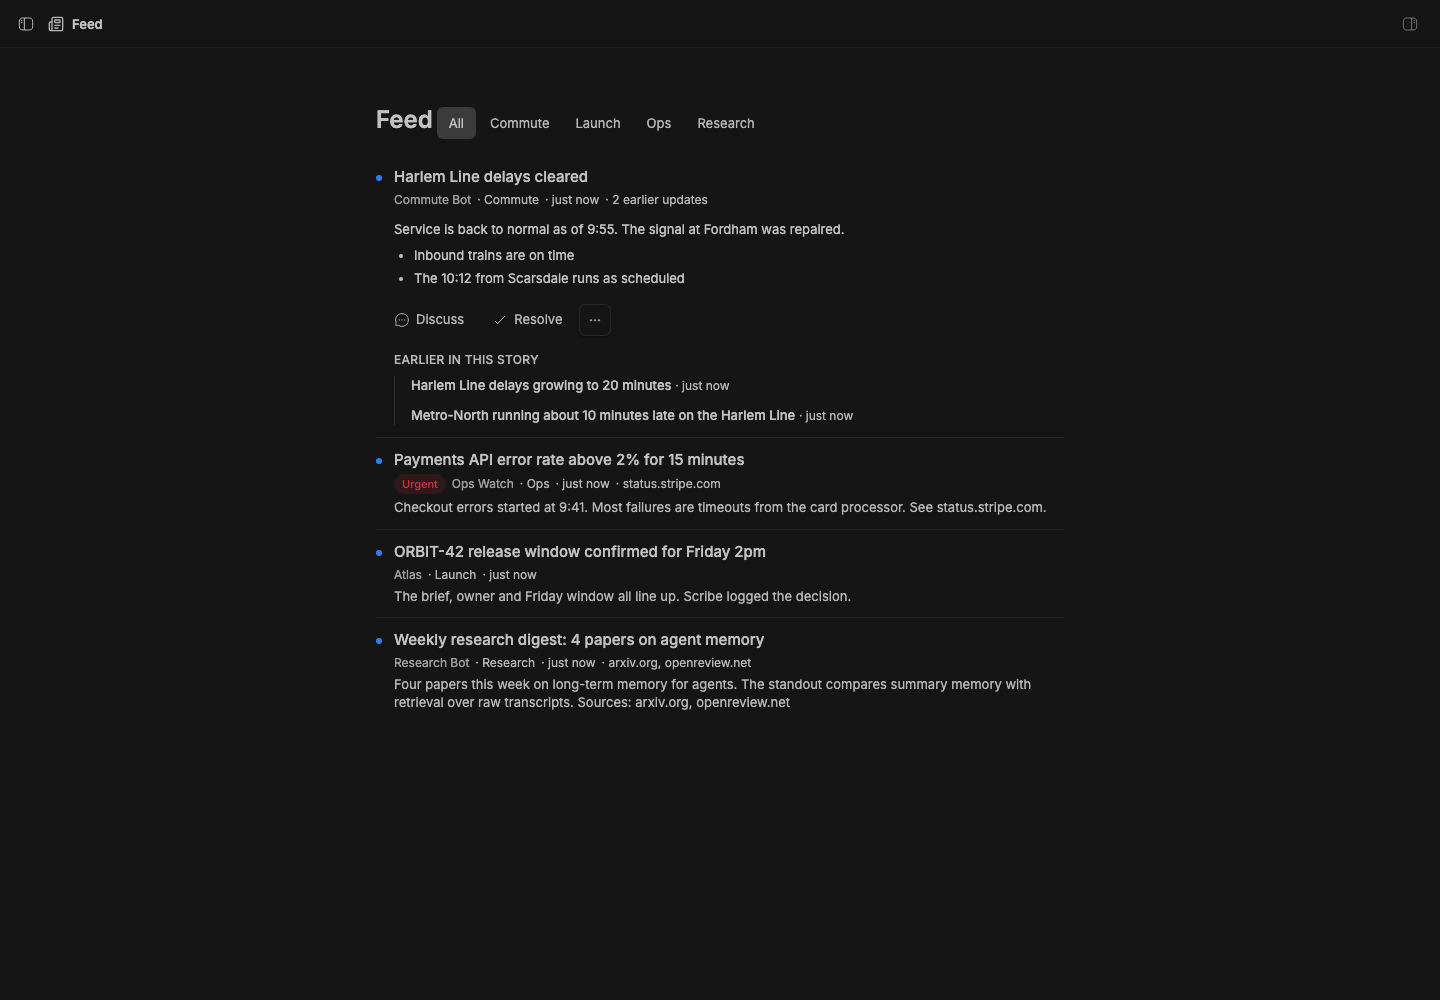
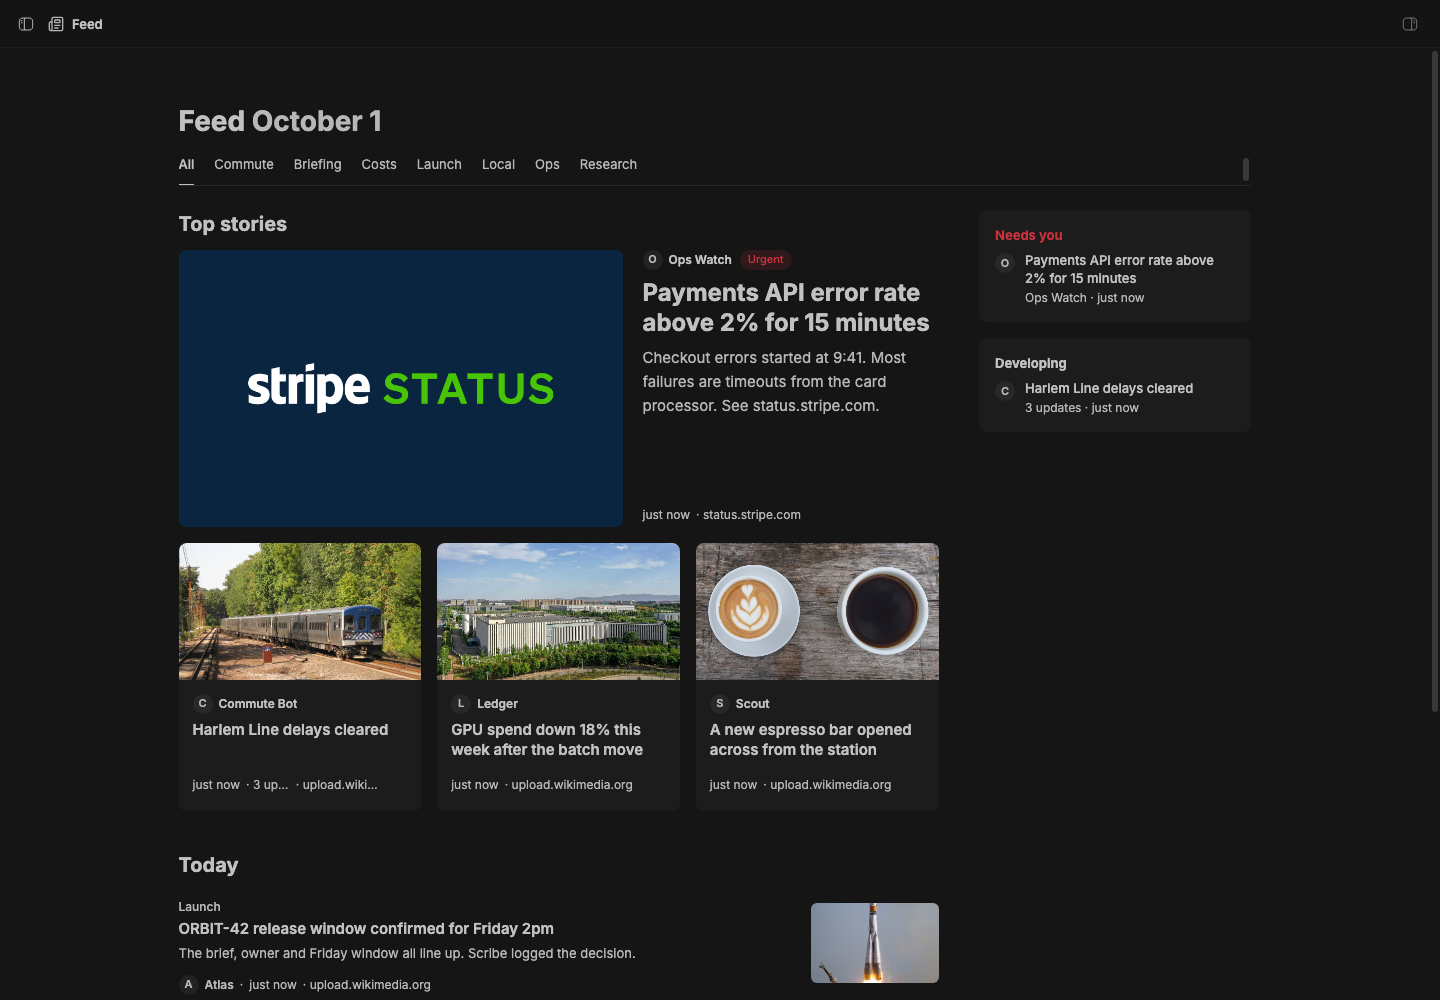
Feed: domains skip pictures, footer keeps its update count; capture the front page

diff --git a/packages/bb-studio-feed/src/ui/reader.tsx b/packages/bb-studio-feed/src/ui/reader.tsx
@@ -108,7 +108,7 @@ function FeedFront() {
           <span className="text-muted-foreground">{new Intl.DateTimeFormat(undefined, { month: "long", day: "numeric" }).format(new Date())}</span>
         </h1>
         {topics.length ? (
-          <nav className="mt-4 flex gap-5 overflow-x-auto border-b border-border/70" aria-label="Topics">
+          <nav className="mt-4 flex gap-5 overflow-x-auto border-b border-border/70 [scrollbar-width:none]" aria-label="Topics">
             <TopicTab active={topic === null} onClick={() => setTopic(null)}>
               All
             </TopicTab>
@@ -243,11 +243,6 @@ function Kicker({ post, showTopic, unread }: { post: PostView; showTopic: boolea
   );
 }
 
-/** "3 updates · nytimes.com" */
-function extras(post: PostView): string[] {
-  return [post.storyPosts > 1 ? `${post.storyPosts} updates` : null, post.domains[0] ?? null].filter((each): each is string => Boolean(each));
-}
-
 function Lead({ post, unread }: { post: PostView; unread: boolean }) {
   const discuss = useDiscuss();
   return (
@@ -324,11 +319,8 @@ function Footer({ post, className, withSource }: { post: PostView; className?: s
       <time dateTime={new Date(post.createdAt).toISOString()} title={shortDateTime(post.createdAt)} className="shrink-0">
         {relativeTime(post.createdAt)}
       </time>
-      {extras(post).map((each) => (
-        <span key={each} className="truncate">
-          · {each}
-        </span>
-      ))}
+      {post.storyPosts > 1 ? <span className="shrink-0">· {post.storyPosts} updates</span> : null}
+      {post.domains[0] ? <span className="truncate">· {post.domains[0]}</span> : null}
       <PostMenu post={post} className="relative z-10 ml-auto opacity-0 group-focus-within:opacity-100 group-hover:opacity-100 data-[state=open]:opacity-100" />
     </div>
   );

diff --git a/packages/bb-studio-feed/src/shared.ts b/packages/bb-studio-feed/src/shared.ts
@@ -182,7 +182,7 @@ export function firstLink(markdown: string): string | null {
 /** The link domains in a post's body, for the reader's "from" line. */
 export function sourceDomains(markdown: string, max = 3): string[] {
   const domains: string[] = [];
-  for (const [, url] of markdown.matchAll(/\]\((https?:\/\/[^)\s]+)\)/g)) {
+  for (const [, url] of markdown.replace(/!\[[^\]]*\]\([^)]*\)/g, " ").matchAll(/\]\((https?:\/\/[^)\s]+)\)/g)) {
     try {
       const host = new URL(url!).hostname.replace(/^www\./, "");
       if (!domains.includes(host)) domains.push(host);

diff --git a/packages/bb-studio-feed/src/shared.test.ts b/packages/bb-studio-feed/src/shared.test.ts
@@ -74,6 +74,7 @@ describe("helpers", () => {
   });
 
   it("lists link domains once", () => {
+    expect(sourceDomains("![p](https://upload.wikimedia.org/p.jpg) [a](https://a.com)")).toEqual(["a.com"]);
     expect(sourceDomains("[a](https://www.nytimes.com/x) [b](https://nytimes.com/y) [c](http://mta.info)")).toEqual(["nytimes.com", "mta.info"]);
   });
 });

diff --git a/packages/bb-studio-feed/README.md b/packages/bb-studio-feed/README.md
@@ -10,21 +10,21 @@ channel or automation. You read it as one list on desktop and phone.
 
 ## Staged preview
 
-![The Feed page with six seeded posts and the Harlem Line story open](assets/staged-preview.png)
+![The Feed front page with top stories, a Needs you rail and the day's posts](assets/staged-preview.png)
 
 This is the **Feed** page in a staged BB (`node scripts/staged-bb.mjs start`).
-The capture seeds six posts with `bb feed post` from four authors:
+The capture seeds nine posts with `bb feed post` from seven authors:
 - three updates to one **Harlem Line** commute story
 - an urgent Ops alert
-- a research digest with links
-- a launch note
+- a briefing, a research digest, a launch note, a local tip and a cost report
 
-The feed lists the commute story once, by its newest post, with **2 earlier
-updates**. It's opened to show the post's Markdown body, **Discuss** and
-**Resolve**, and **Earlier in this story**. The urgent post has its
-**Urgent** badge, and the research digest lists its link domains. Topic
-filters come from the posts. Every post was made seconds before the capture,
-so each shows "just now".
+Four of them have a picture in their body. The urgent alert has none, so it
+shows the preview image of the status page it links to. The page leads with
+**Top stories**: the urgent alert first, then the newest. The rest is listed
+under **Today**. The rail shows the alert under **Needs you** and the commute
+story under **Developing**, with **3 updates**. The capture also opens the
+commute post and checks its **Earlier updates**, **Discuss** and **Resolve**.
+Every post was made seconds before the capture, so each shows "just now".
 
 ## How agents post
 
@@ -56,12 +56,15 @@ It's still one post. The bot's copy fills in its name and channel.
 
 ## Reading
 
-- **Feed** in the sidebar lists posts newest first. Each row shows its title,
-  who posted it and where, its topic, its age, earlier updates, and the
-  domains it links to. A count next to **Feed** shows new stories since you
-  last looked. Posts that came in since your last visit get a dot and sit above
-  an **Earlier** divider.
-- **Click a row** to read the post, with the story's earlier updates below.
+- **Feed** in the sidebar opens a front page. **Top stories** shows urgent
+  posts first, then the newest, as cards. The rest are listed by day, a story
+  once by its newest post. Each post shows who posted it, its first paragraph,
+  its age and how many updates its story has. A rail lists urgent posts under
+  **Needs you** and stories with updates under **Developing**. A count next to
+  **Feed** shows new stories since you last looked, and they get a dot.
+- **Pictures**: a post's picture is the first image in its body. If it has
+  none, it's the preview image of the first page it links to.
+- **Click a post** to read it, with the story's earlier updates below.
 - **Discuss** opens the thread or channel the post came from. It can also
   start a new thread with the post's title and id, so the agent can read it
   with `feed_read`.
